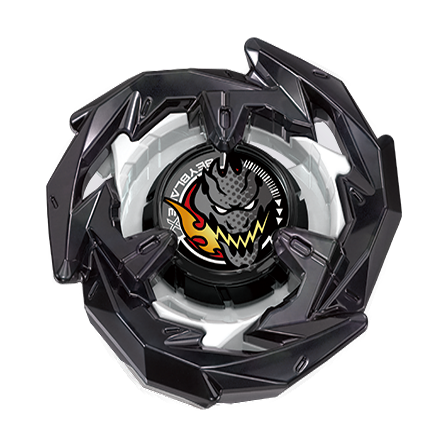
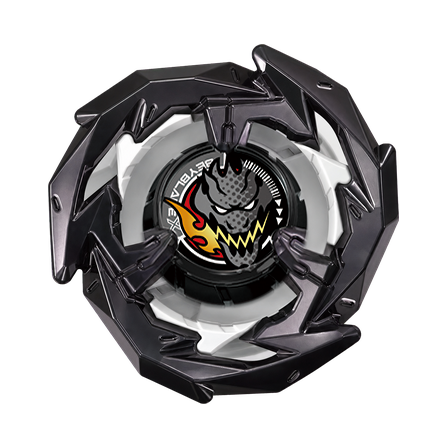
Apply generated Dran Sword and Cobalt Dragoon fronts

Changed region(s): [[0.0938, 0.0625, 0.9062, 0.9375]]

diff --git a/index.html b/index.html
@@ -484,14 +484,14 @@
         "#app/services": "./src/app-services.js?v=20260714-scroll-affordance-overlay",
         "#app/markup-core": "./src/markup-core.js?v=20260714-scroll-affordance-overlay",
         "#app/anime-core": "./src/anime-core.js?v=20260720-burst-airdate-notes",
-        "#app/data-store": "./src/data-store.js?v=20260808-x-variant-fronts-4",
+        "#app/data-store": "./src/data-store.js?v=20260809-x-dran-cobalt-generated-fronts",
         "#app/search-data-decoder": "./src/search-data-decoder.js?v=20260720-burst-airdate-notes",
         "#app/ui-core": "./src/ui-core.js?v=20260731-mobile-highlight-fix",
         "#app/release-core": "./src/release-core.js?v=20260731-mobile-highlight-fix",
         "#app/scroll-affordance": "./src/scroll-affordance.js?v=20260719-dropdown-shadow-mounted-label",
         "#app/search-core": "./src/search-core.js?v=20260717-dead-code-cleanup",
         "#app/search-engine": "./src/search-engine.js?v=20260731-mobile-highlight-fix",
-        "#app/catalog-model": "./src/catalog-model.js?v=20260808-x-variant-fronts-4",
+        "#app/catalog-model": "./src/catalog-model.js?v=20260809-x-dran-cobalt-generated-fronts",
         "#app/collection-view": "./src/collection-view.js?v=20260731-mobile-highlight-fix",
         "#app/catalog-view": "./src/catalog-view.js?v=20260717-dead-code-cleanup",
         "#app/route-parser": "./src/route-parser.js?v=20260714-scroll-affordance-overlay",
@@ -500,7 +500,7 @@
         "#app/search-controller": "./src/search-controller.js?v=20260714-scroll-affordance-overlay",
         "#app/search-help-controller": "./src/search-help-controller.js?v=20260717-dead-code-cleanup",
         "#app/detail-view": "./src/detail-view.js?v=20260803-modal-tag-wheel-edge",
-        "#app/image-preview": "./src/image-preview.js?v=20260808-x-variant-fronts-4",
+        "#app/image-preview": "./src/image-preview.js?v=20260809-x-dran-cobalt-generated-fronts",
         "#app/modal-context": "./src/modal-context.js?v=20260714-scroll-affordance-overlay",
         "#app/style-loader": "./src/style-loader.js?v=20260804-mobile-modal-scrollbar-centering",
         "#app/feature-loaders": "./src/feature-loaders.js?v=20260717-dead-code-cleanup",

diff --git a/src/data-store.js b/src/data-store.js
@@ -8,7 +8,7 @@ const bookItems = [];
 const gameItems = [];
 const animeInfo = { title: "", overview: [], characters: [], episodes: [] };
 const searchIndexItems = [];
-const X_ASSET_CACHE_VERSION = "20260808-x-variant-fronts-4";
+const X_ASSET_CACHE_VERSION = "20260809-x-dran-cobalt-generated-fronts";
 
 const versionAssetUrl = source => {
   const value = String(source || "");

diff --git a/scripts/build-x-bey-angle-corrections.py b/scripts/build-x-bey-angle-corrections.py
@@ -22,6 +22,7 @@ SUPPLIED_FRONT_IDS = {
     "BEY-X-BX-00-01-LIGHTNING-L-DRAGO-UPPER-1-60F",
     "BEY-X-BX-00-02-LIGHTNING-L-DRAGO-BARRAGE-1-60F",
     "BEY-X-BX-00-COBALT-DRAGOON-2-60C",
+    "BEY-X-BX-00-COBALT-DRAGOON-9-60F",
     "BEY-X-BX-00-COBALT-DRAKE-4-60F",
     "BEY-X-BX-00-HELLS-CHAIN-5-60HT",
     "BEY-X-BX-00-LEON-CLAW-5-60P",
@@ -83,6 +84,7 @@ SUPPLIED_FRONT_IDS = {
     "BEY-X-UX-10-KNIGHT-MAIL-3-85BS",
     "BEY-X-BX-00-DRAGOON-STORM-4-60RA",
     "BEY-X-BX-00-DRAN-SWORD-3-60F",
+    "BEY-X-BX-00-DRAN-SWORD-1-60V",
     "BEY-X-BX-00-MAMMOTH-TUSK-2-80E",
     "BEY-X-BX-00-PHOENIX-SOAR-9-60GF",
     "BEY-X-BX-00-ROCK-LEONE-6-80GN",
@@ -113,7 +115,7 @@ SUPPLIED_FRONT_IDS = {
     "BEY-X-UX-19-BULLET-GRIFFON-H",
     "BEY-X-UX-20-GLORY-VALKYRIE-LF",
 }
-CONFIG_VERSION = "20260808-x-variant-fronts-4"
+CONFIG_VERSION = "20260809-x-dran-cobalt-generated-fronts"
 
 
 def parse_args() -> argparse.Namespace:
@@ -220,8 +222,8 @@ def initialize_config(audit_path: Path) -> dict:
             "method": METHOD,
             "scaleY": SCALE_Y,
         })
-    if len(entries) != 38:
-        raise ValueError(f"expected 38 angle corrections, found {len(entries)}")
+    if len(entries) != 36:
+        raise ValueError(f"expected 36 angle corrections, found {len(entries)}")
     return {
         "version": CONFIG_VERSION,
         "method": METHOD,

diff --git a/scripts/normalize-x-bey-front-images.py b/scripts/normalize-x-bey-front-images.py
@@ -16,7 +16,7 @@ from PIL import Image
 
 CONFIG_PATH = Path("data/source/x-bey-primary-images.json")
 ANGLE_CONFIG_PATH = Path("data/source/x-bey-angle-corrections.json")
-CONFIG_VERSION = "20260808-x-variant-fronts-4"
+CONFIG_VERSION = "20260809-x-dran-cobalt-generated-fronts"
 CANVAS_SIZE = 448
 TARGET_FOREGROUND_SIZE = 360
 ALPHA_THRESHOLD = 3
@@ -152,8 +152,8 @@ def main() -> int:
     validate_policy(config)
 
     entries = config_entries(config)
-    if len(entries) != 204:
-        raise ValueError(f"expected 204 front-view Beys, found {len(entries)}")
+    if len(entries) != 206:
+        raise ValueError(f"expected 206 front-view Beys, found {len(entries)}")
     ids = [entry["id"] for entry in entries]
     paths = [entry["image"] for entry in entries]
     if len(set(ids)) != len(ids) or len(set(paths)) != len(paths):

diff --git a/scripts/record-x-image-alpha-review.py b/scripts/record-x-image-alpha-review.py
@@ -14,7 +14,7 @@ from PIL import Image
 CANVAS_SIZE = 448
 MIN_MARGIN = 6
 MAX_FOREGROUND_SIZE = CANVAS_SIZE - MIN_MARGIN * 2
-REVIEW_VERSION = "20260808-x-variant-fronts-4"
+REVIEW_VERSION = "20260809-x-dran-cobalt-generated-fronts"
 
 
 def parse_args() -> argparse.Namespace:
